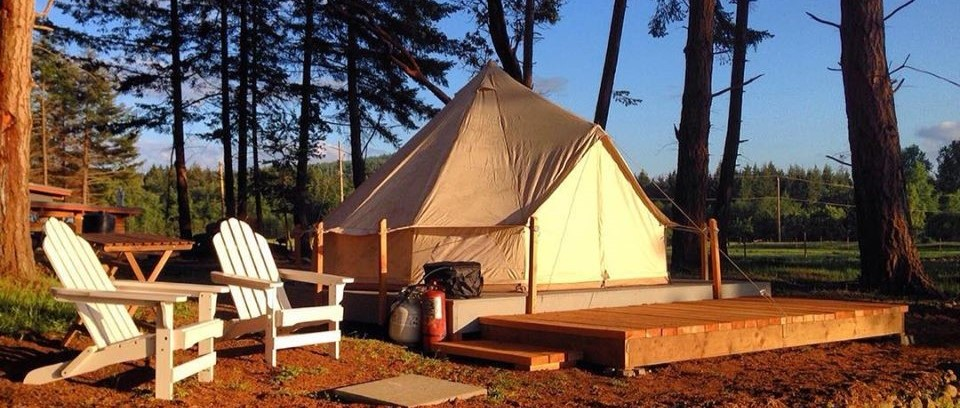
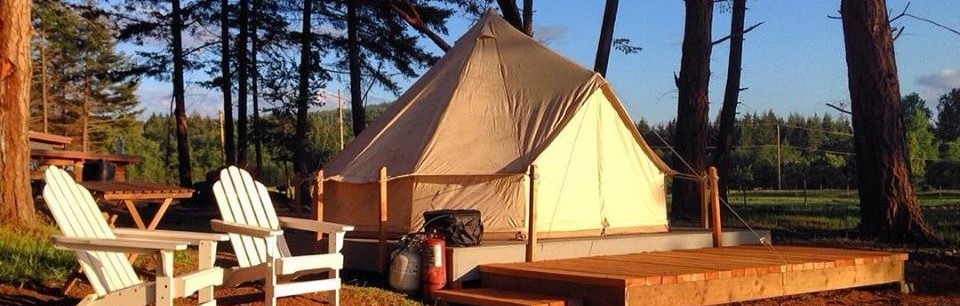
karli - hero image and title update

diff --git a/public/index.html b/public/index.html
@@ -24,7 +24,7 @@
       work correctly both with client-side routing and a non-root public URL.
       Learn how to configure a non-root public URL by running `npm run build`.
     -->
-    <title>React App</title>
+    <title>Camping Cart</title>
   </head>
   <body>
     <noscript>You need to enable JavaScript to run this app.</noscript>
